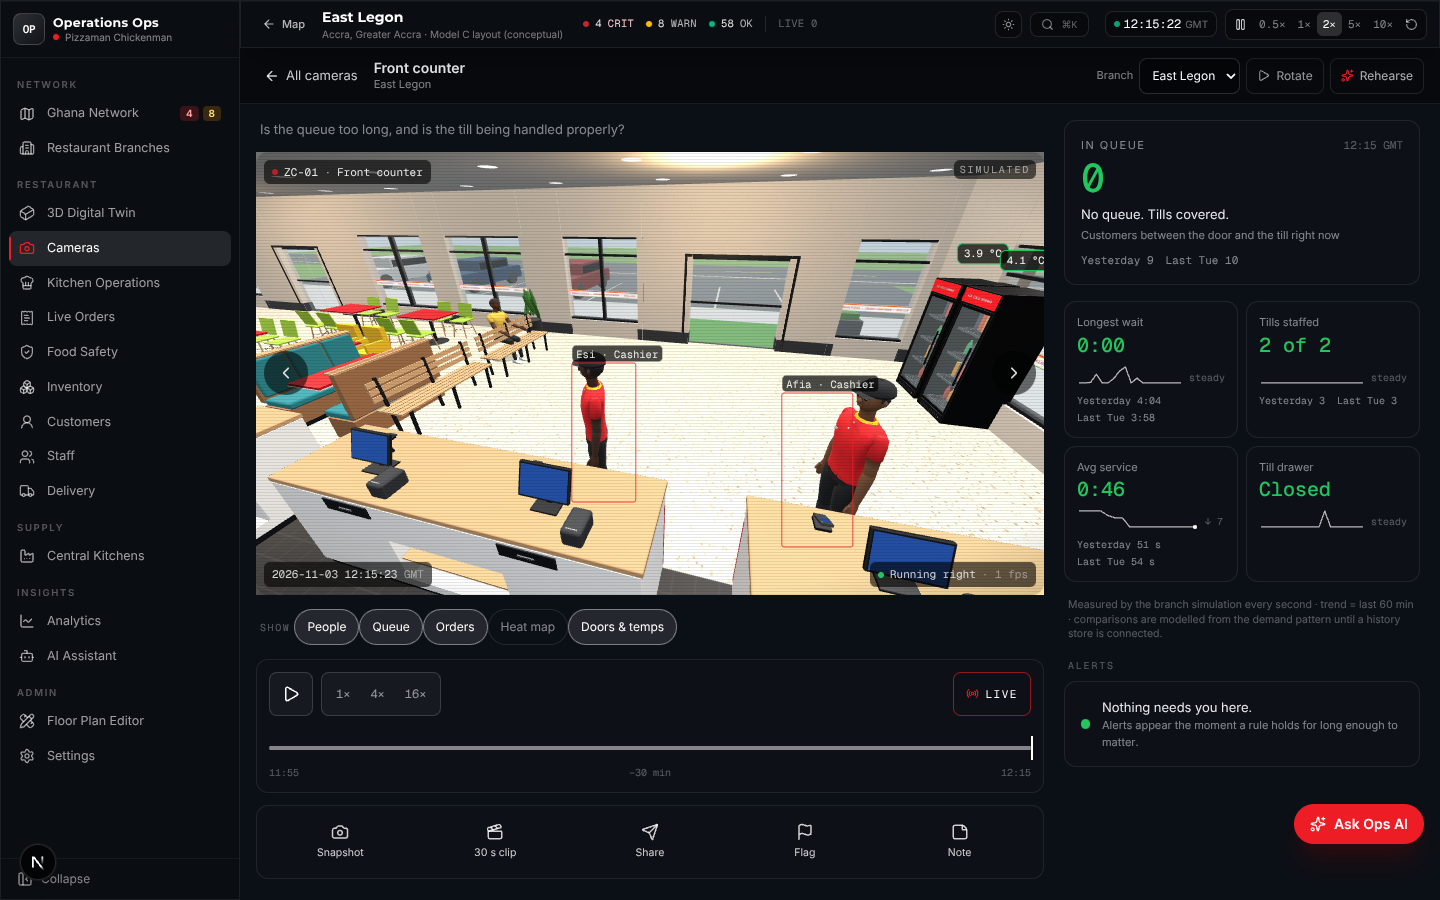
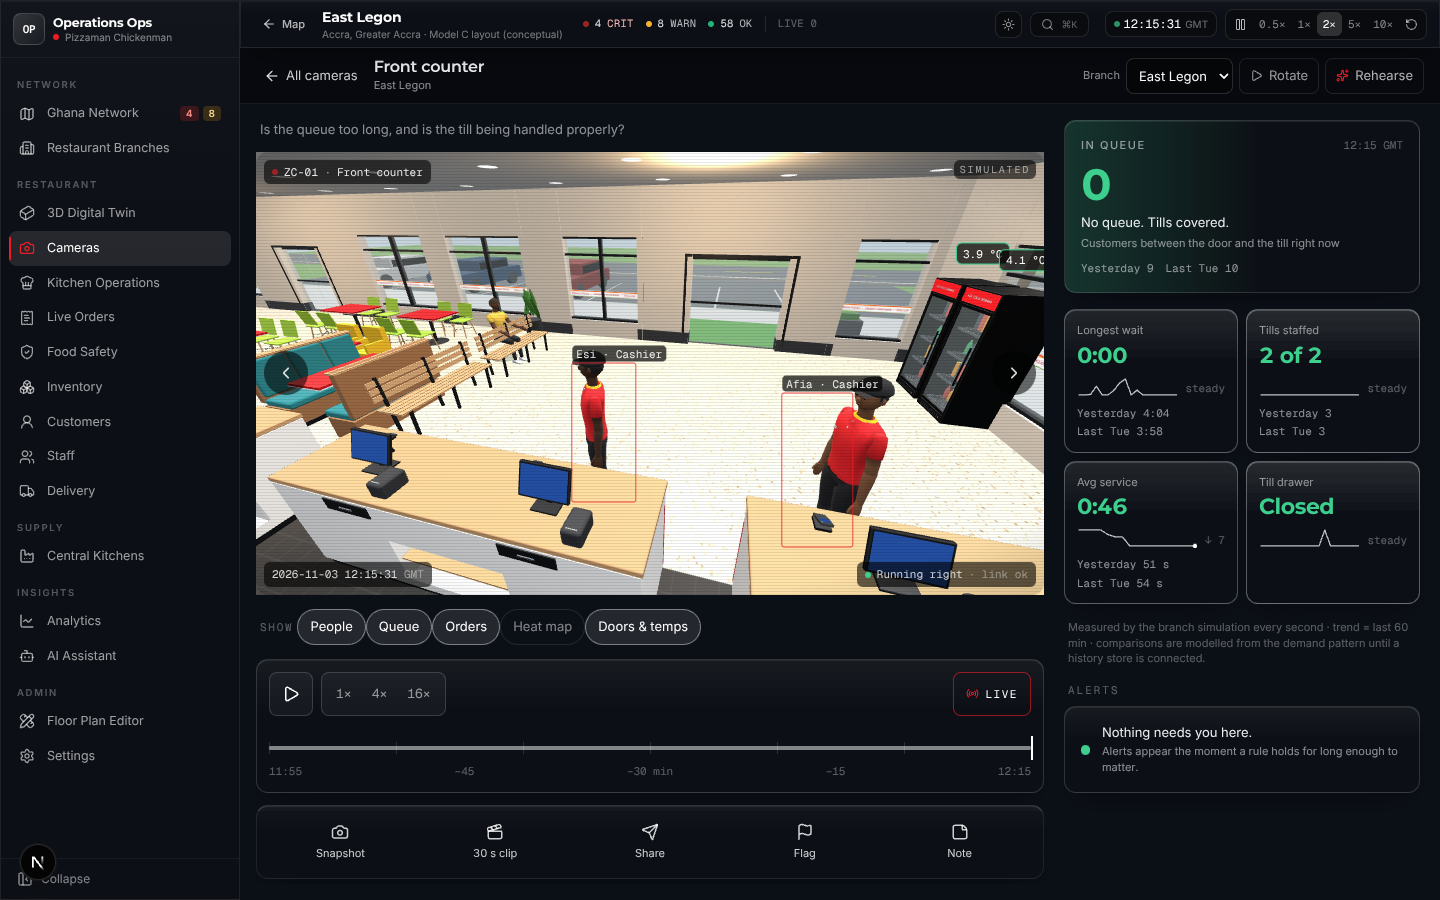
Style guide covers the platform palette and numerals; refreshed app screens
Claude-Session: https://claude.ai/code/session_01Ufnt8yeUtWwphsGDpMdPeL

diff --git a/docs/STYLE-GUIDE.md b/docs/STYLE-GUIDE.md
@@ -5,33 +5,38 @@ One deliberate look: a **dark control-room surface** in either app theme (the ce
 and hierarchy, not in decoration. If an element does not help the owner decide something in
 the next 60 seconds, it is not on the screen.
 
+## Scope
+
+These rules now apply to the whole platform, not only the camera centre: the tokens live in
+`src/app/globals.css` (`:root`), every status utility (`emerald`, `amber`, `red`) is mapped onto
+the same three status colours, and every readout uses the `.num` display numerals.
+
 ## Colour
 
 | Token | Value | Use |
 |---|---|---|
-| `--cam-bg` | `#07090d` | Page / canvas background (painted by the renderer) |
-| `--cam-panel` | `#0d1117` | Panels, cards |
-| `--cam-panel-2` | `#121821` | Raised controls |
-| `--cam-line` | `rgba(255,255,255,.08)` | Hairlines, borders, neutral rings |
-| `--cam-fg` / `--cam-muted` / `--cam-faint` | `#e8eaed` / 55 % / 35 % | Text in three strengths only |
-| `--accent` | `#ee1d25` (brand red) | Primary action, the active camera, recording dot, scrubber thumb. Sparingly. |
-| `--ok` | `#22c55e` | Running right |
-| `--watch` | `#f59e0b` | Watch |
-| `--act` | `#ef4444` | Act now |
+| `--bg` / `--cam-bg` | `#070a10` / `#07090d` | Page, canvas background |
+| `--panel` / `--cam-panel` | `rgba(12,16,22,.88)` / `#0c1016` | Panels, cards, glass surfaces (gradient highlight + soft shadow) |
+| `--panel-border` / `--cam-line` | `rgba(255,255,255,.075)` | Hairlines, borders, neutral rings |
+| text | `#eceef1` / 58 % / 36 % | Text in three strengths only |
+| `--accent` | `#ee1d25` (brand red) | Primary action (gradient `btn-primary`), the active camera, recording dot, scrubber thumb. Sparingly. |
+| `--ok` | `#3ccf8e` | Running right |
+| `--watch` | `#f5b02e` | Watch |
+| `--act` | `#f0483e` | Act now |
+| `--viz` | `#7f9cc0` (steel) | The single information hue: chart series, map ramp, progress. Never a status. |
 
-Rules: one neutral scale, one accent, three status colours. **Status colours are never
-decorative**: green/amber/red only ever mean healthy/watch/act. People boxes use neutral
-white (customers) or the accent (staff) unless a timed state turns them amber/red. Heat map is
-a single calibrated ramp (accent at low alpha → accent).
+Rules: one neutral scale, one accent, three status colours, one information hue. **Status
+colours are never decorative**: green/amber/red only ever mean healthy/watch/act. Multi-series
+charts use steel, sand `#d1a86a`, mauve `#a98fc9`, teal `#6fb8b0` — muted, equal weight.
 
 ## Type
 
-- **Numbers and readouts**: Geist Mono, tabular figures (`font-variant-numeric: tabular-nums`
-  on every mono element), so values tick without jitter.
-- **Labels and sentences**: Inter.
-- **Scale** (max three sizes per screen plus the hero): 11 px meta / 13 px body and buttons /
-  20–22 px metrics; hero metric 40 px (64 px on wall screens). Letter-spaced mono uppercase at
-  10–11 px for section eyebrows only.
+- **Numbers and readouts**: the brand display face (Montserrat) through `.num` — 700 weight,
+  tabular lining figures, −2 % tracking — so values tick without jitter and read from 3 m.
+- **Instrument plates and timestamps** (on feeds, timelines): Geist Mono, tabular.
+- **Labels and sentences**: Inter with `cv11`/`ss01` alternates, antialiased.
+- **Scale**: 11 px meta / 13 px body and buttons / 16 px titles / 20–24 px metrics; hero metric
+  44 px (64 px on wall screens). Letter-spaced mono uppercase at 10–11 px for eyebrows only.
 
 ## Geometry
 
